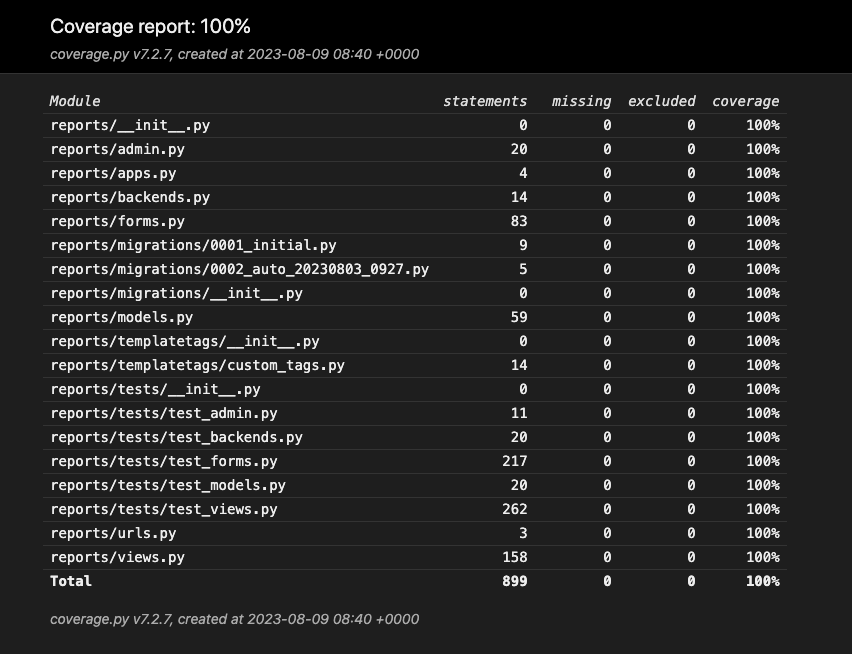
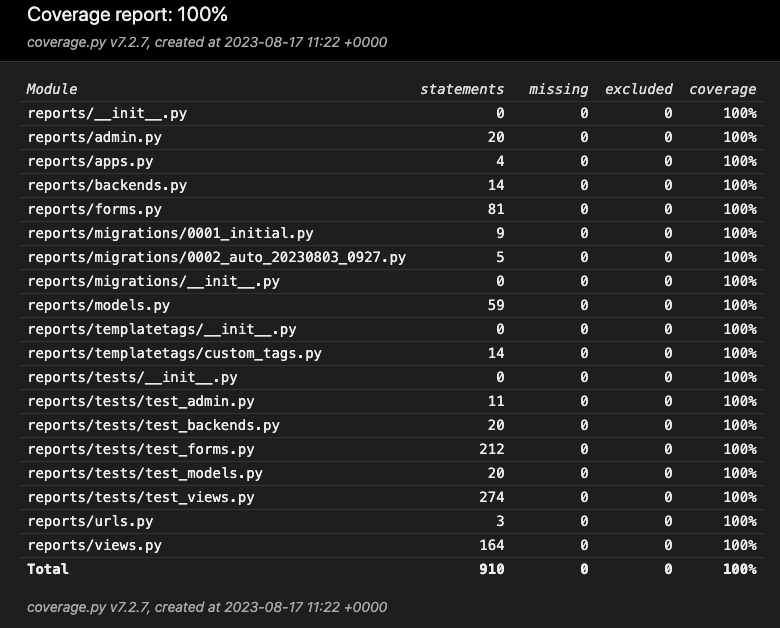
Tested new toggle view, coverage 100%

diff --git a/reports/tests/test_views.py b/reports/tests/test_views.py
@@ -816,3 +816,47 @@ class UpdateAccountViewTests(TestCase):
         self.assertEqual(response.status_code, 200)
         self.assertFormError(
             response, 'form', 'username', 'This field is required.')
+
+
+class ToggleReportViewTest(TestCase):
+    """
+    Unit tests for the toggle_report view.
+    """
+    def setUp(self):
+        """
+        Set up the test environment.
+        """
+        self.user = User.objects.create(
+            username="testuser",
+            email='test@example.com',
+            password='testpassword'
+        )
+
+    def test_toggle_status(self):
+        """
+        Test the toggle functionality, changes report status from
+        0 'Draft' to 1 'Published' and back. First assertions checks
+        for the initial change the second checks for the opposite.
+        """
+        report = Report.objects.create(
+            title="Sample Report",
+            slug="sample-report",
+            author=self.user,
+            start_date="2023-07-13",
+            end_date="2023-07-15",
+            overall_conditions="Good",
+            activity_category="Hiking",
+            description="This is a sample report.",
+            status=0
+        )
+
+        url = reverse('toggle_report', args=[report.pk])
+        response = self.client.post(url)
+        report.refresh_from_db()
+
+        self.assertEqual(report.status, 1)
+        # Test view also toggles back
+        response = self.client.post(url)
+        report.refresh_from_db()
+
+        self.assertEqual(report.status, 0)

diff --git a/reports/tests/test_forms.py b/reports/tests/test_forms.py
@@ -933,17 +933,3 @@ class UpdateAccountFormTests(TestCase):
         form = UpdateAccountForm(data=initial_data, instance=self.user)
 
         self.assertTrue(form.is_valid())
-
-    def test_invalid_email(self):
-        """
-        Test to check an invalid input in the email field.
-        """
-        initial_data = {
-            'username': 'new_username',
-            'email': 'test_not_an_email',
-        }
-
-        form = UpdateAccountForm(data=initial_data, instance=self.user)
-
-        self.assertFalse(form.is_valid())
-        self.assertTrue('email' in form.errors)

diff --git a/reports/views.py b/reports/views.py
@@ -395,7 +395,6 @@ def toggle_report(request, pk):
 
     if request.method == 'POST':
         report.status = 0 if report.status == 1 else 1
-        print(report.status)
         report.save()
 
     return redirect('account')

diff --git a/README_testing.md b/README_testing.md
@@ -20,7 +20,7 @@
 ------------------
 #### Unit Tests (automated testing)
 
-I decided to take on Unit Testing for all python code in the project. After a steep and frustrating learning curve I managed to write **80** tests, including **152** assertions. I am however aware that there is many more tests which could be run to check the logic even further.
+I decided to take on Unit Testing for all python code in the project. After a steep and frustrating learning curve I managed to write **81** tests, including **154** assertions. I am however aware that there is many more tests which could be run to check the logic even further.
 
 *Some resources I used to build knowledge and write tests:*
 
@@ -37,6 +37,10 @@ I decided to take on Unit Testing for all python code in the project. After a st
 Throughout testing I was using `coverage` to test how much of my code was being tested and which statements still needed to be tested. Its an icredibly helpful tool, providing reports in the CLI and even a Html docment, visible from the browser. To avoid even further confusion I seperated my tests into different files, seperating `test_views` from `test_forms` meant I could also focus running tests on just one document or TestCase easier.
 
 After using `coverage` I was able to make **100%** of code covered.
+
+To run `coverage` in command line type:
+
+    coverage run --source=reports manage.py test
 
 ![Coverage report](README_images/coverage.png)
 
